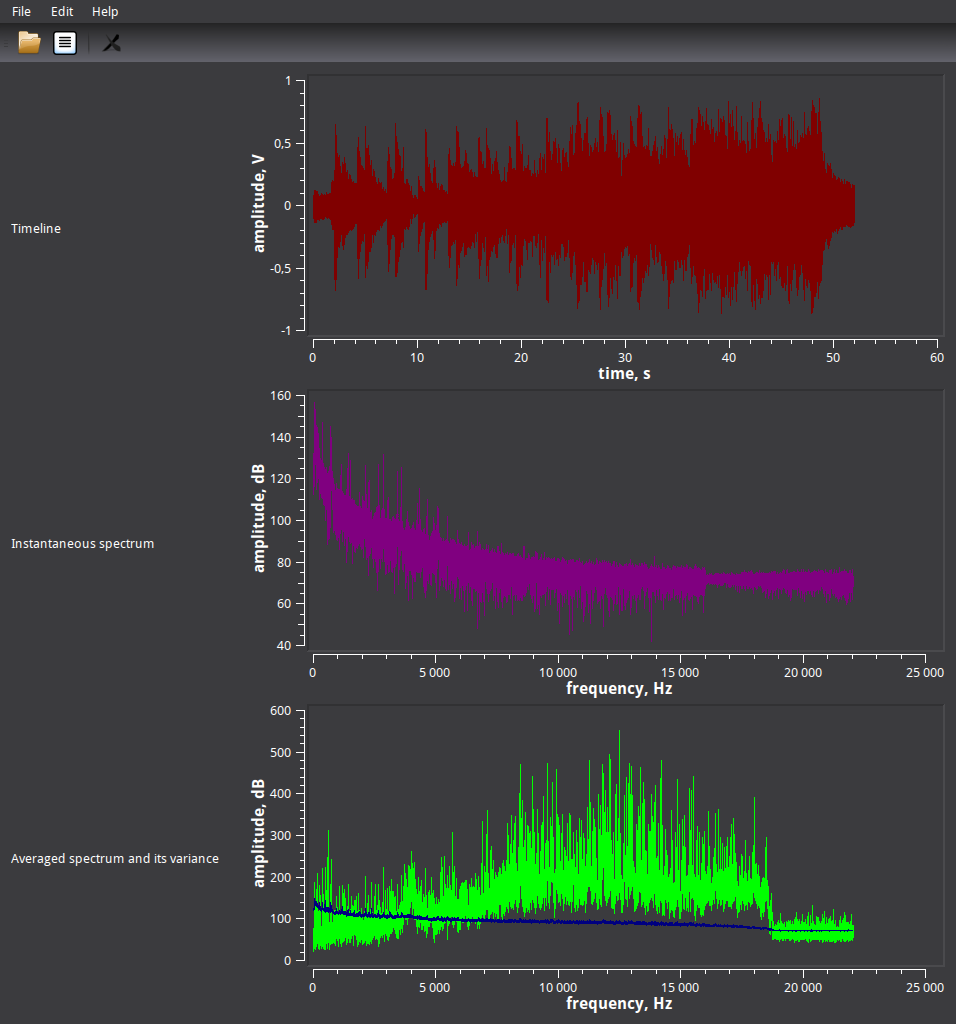
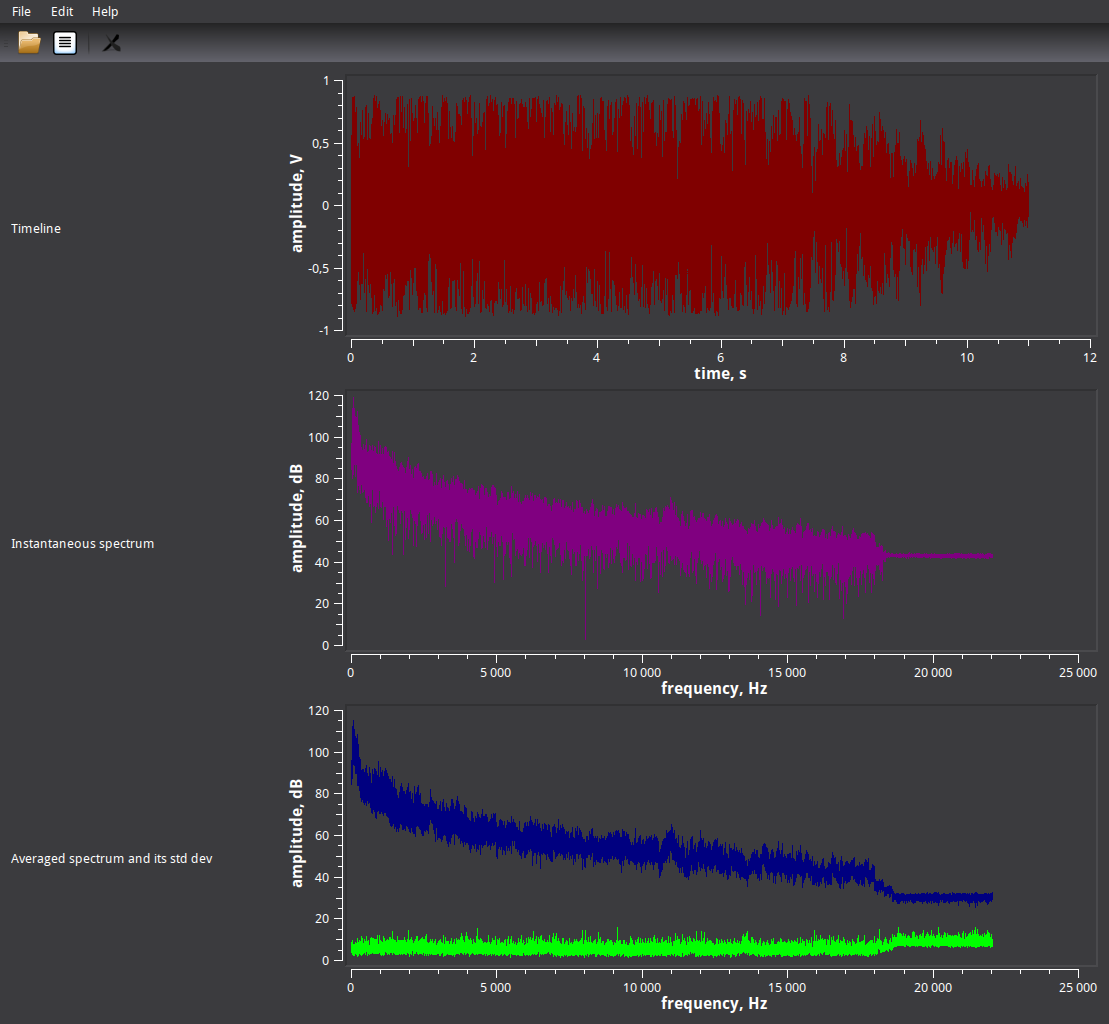
Various fixes
- implemented proper FFT normalization
- show standard deviation instead of variance as it is same units (not square ones)
- removed minimum search and is_finite safety harness

diff --git a/mainwindow.cpp b/mainwindow.cpp
@@ -29,12 +29,12 @@ CMainWindow::CMainWindow(QWidget *parent) :
 	time_graph.setPen(QPen(Qt::darkRed));
 	spectrum_graph.setPen(QPen(Qt::darkMagenta));
 	exp_graph.setPen(QPen(Qt::darkBlue));
-	var_graph.setPen(QPen(Qt::green));
+	stddev_graph.setPen(QPen(Qt::green));
 
 	// графики
 	time_graph.attach(ui->pltTimeline);
 	spectrum_graph.attach(ui->pltPassing);
-	var_graph.attach(ui->pltAveraged);
+	stddev_graph.attach(ui->pltAveraged);
 	exp_graph.attach(ui->pltAveraged);
 
 	// подписи к осям
@@ -80,8 +80,6 @@ static double to_db(double v)
 {
 	return 20.0 * log10(v / 2e-5);
 }
-
-static double minumum_level_offset = 6.0;
 
 bool CMainWindow::Analyze(const QString &fn)
 {
@@ -164,22 +162,13 @@ bool CMainWindow::Analyze(const QString &fn)
 		QVector<double> x(N-1);
 		x[0] = 0.0;
 		for(int i = 1; i < N; i++)
-			x[i-1] = sqrt( sqr(out[i][0]) + sqr(out[i][1]) );
-
-		// найти минимум
-		double min = DBL_MAX;
-		for(int i = 0; i < x.size(); i++)
-			if(min > x[i] && x[i] > 0)
-				min = x[i];
-		if(min == DBL_MAX)
-			min = minumum_level_offset;
+			x[i-1] = sqrt( sqr(out[i][0]) + sqr(out[i][1]) ) / sqrt(nsamples);
 
 		// сосчитать суммы Xi и Xi^2
 		for(int i = 0; i < freqs.size(); i++)
 		{
 			double db = to_db(x[i]);
-			if(!finite(db))
-				db = min - minumum_level_offset;
+			Q_ASSERT(finite(db));
 			if(length == spectrum_second)
 				spectrum.append(db);
 			E[i] += db;
@@ -189,7 +178,7 @@ bool CMainWindow::Analyze(const QString &fn)
 	}
 
 	expectations.clear();
-	variances.clear();
+	stddevs.clear();
 	// Матожидания
 	Q_ASSERT(length * window_length ==
 		floor((double)snd_file.frames()/snd_file.samplerate()));
@@ -197,7 +186,7 @@ bool CMainWindow::Analyze(const QString &fn)
 		expectations.append(E[i] / length);
 	// Дисперсии
 	for(int i = 0; i < freqs.size(); i++)
-		variances.append( E2[i] / length - sqr(expectations[i]) );
+		stddevs.append( sqrt(E2[i] / length - sqr(expectations[i])) );
 
 	// Освободить ресурсы
 	fftw_destroy_plan(plan);
@@ -212,7 +201,7 @@ void CMainWindow::Plot()
 	time_graph.setData(time, timeline);
 	spectrum_graph.setData(freqs, spectrum);
 	exp_graph.setData(freqs, expectations);
-	var_graph.setData(freqs, variances);
+	stddev_graph.setData(freqs, stddevs);
 
 	ui->pltTimeline->replot();
 	ui->pltPassing->replot();

diff --git a/mainwindow.h b/mainwindow.h
@@ -29,12 +29,12 @@ private:
 	QVector<double> freqs;
 	QVector<double> spectrum;
 	QVector<double> expectations;
-	QVector<double> variances;
+	QVector<double> stddevs;
 
 	QwtPlotCurve time_graph;
 	QwtPlotCurve spectrum_graph;
 	QwtPlotCurve exp_graph;
-	QwtPlotCurve var_graph;
+	QwtPlotCurve stddev_graph;
 
 	bool Analyze(const QString& fn);
 	void Plot();
